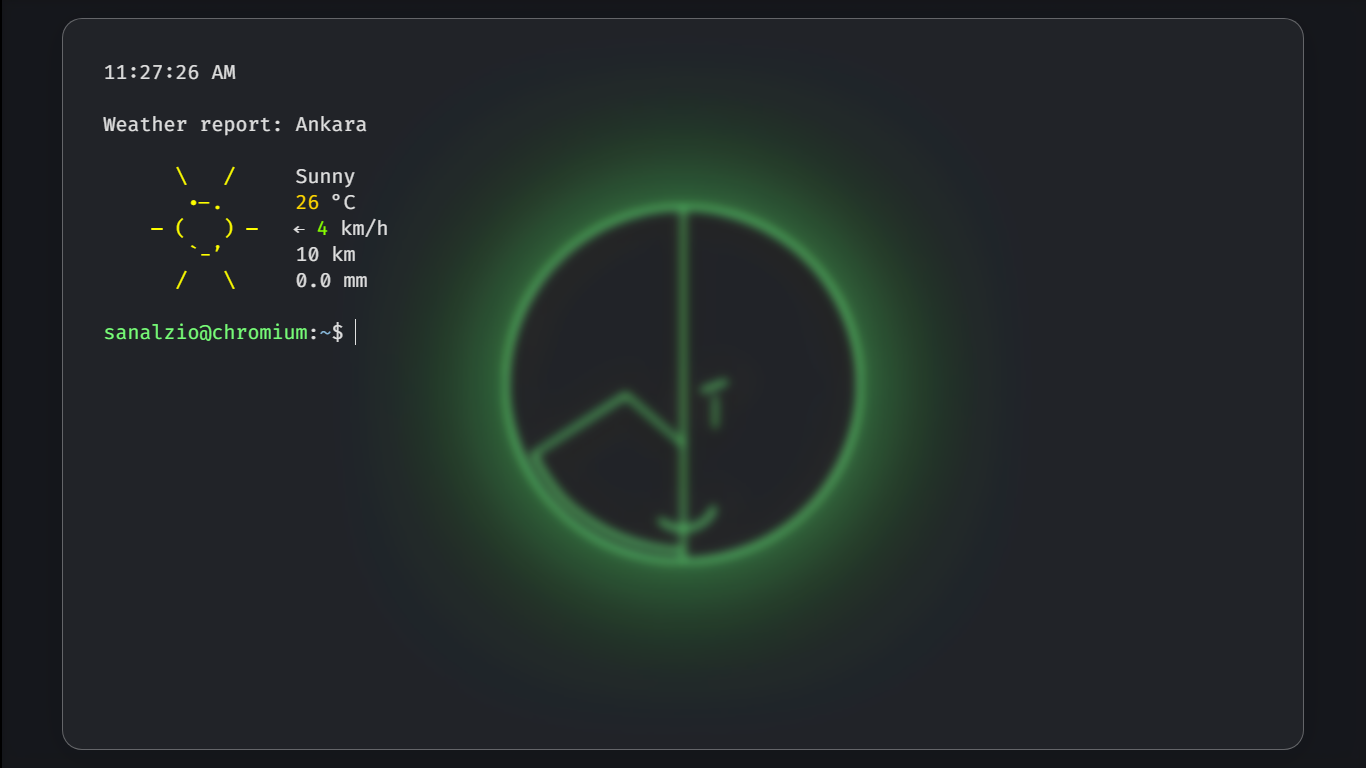
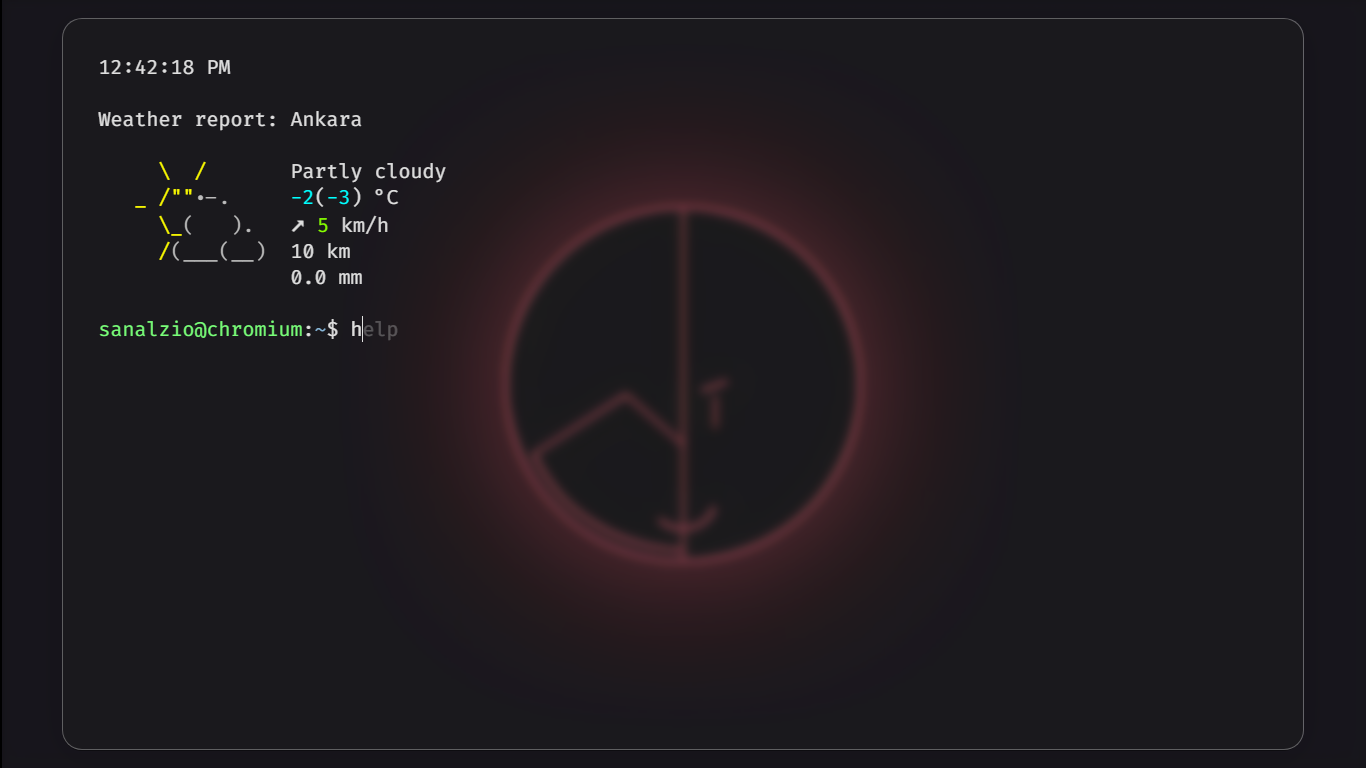
version 1.15.0
- All option names casing in `manifest.json` file changed to `snake_case`.
- Added <ins>**one line comment**</ins> (`// ...`) support for `manifest.json`.
- Added scrollbar.
- Added new 2 wallpaper.

diff --git a/src/scripts/index.js b/src/scripts/index.js
@@ -170,7 +170,7 @@ const stdout = {
         if(stdInValue != "" && thisProcess === undefined) history.push(stdInValue);
         currentHistoryElement = history.length;
 
-        if(settings.remebmerHistory)
+        if(settings.remebmer_history)
             localStorage.setItem("history", JSON.stringify(history));
 
         form.style.display = "none";
@@ -418,7 +418,7 @@ const commands = {
 
             if (!res) return 1;
 
-            // if connection error
+            // if connection returned error
             const err = res.status !== 200 ? res.status : null;
             if (err) {
                 // log error code
@@ -492,11 +492,25 @@ const commands = {
     },
     "bash": {
         func: async function (process) {
-            await fetch(process._).then(res => res.text()).then(async (scriptContent) => {
-                if (!(scriptContent === ""))
-                    // execute script
-                    await executeScript(scriptContent);
-            });
+
+            // if argument is a url
+            const res = await request(process._);
+
+            if (!res) return 1;
+
+            // if connection error
+            const err = res.status !== 200 ? res.status : null;
+            if (err) {
+                // log error code
+                stdout.error("Response returned " + Fore.Bright + Fore.Red + err + Fore.Reset + " code.");
+                // exit with error code
+                return err;
+            }
+
+            const scriptContent = await res.text();
+
+            await executeScript(scriptContent);
+
             return 0;
         },
         about: `Run script.%ALIASES%\nExample:\n $ bash ./file.sh\n $ bash https://example.com/script.sh`
@@ -573,7 +587,7 @@ const commands = {
             }
 
             // if used with --24h or default time format is 24 hours
-            if (process.options["24h"] || (!process.options["12h"] && settings.timeHours == 24)) {
+            if (process.options["24h"] || (!process.options["12h"] && settings.time_hours == 24)) {
 
                 const time = new Date().toLocaleTimeString([], { hour12: false, hour: "2-digit", minute: "2-digit", second: "2-digit" });
                 stdout.log("<span class=\"time24\">" + time + "</span>", false);
@@ -581,7 +595,7 @@ const commands = {
             }
 
             // if used with --24h or default time format is 24 hours
-            else if (process.options["12h"] || (!process.options["24h"] && settings.timeHours == 12)) {
+            else if (process.options["12h"] || (!process.options["24h"] && settings.time_hours == 12)) {
 
                 const time = new Date().toLocaleTimeString([], { hour12: true, hour: "2-digit", minute: "2-digit", second: "2-digit" });
                 stdout.log("<span class=\"time\">" + time + "</span>", false);
@@ -823,7 +837,7 @@ const commands = {
                 return 1;
             }
 
-            let url = encodeURI(process._).replace(encodeURI(process._), settings["search-engine-url"]);
+            let url = encodeURI(process._).replace(encodeURI(process._), settings["search_engine_url"]);
 
             for (const [k, v] of Object.entries(process.options)) {
                 if ("s" == k) continue;
@@ -842,6 +856,32 @@ const commands = {
             return 0;
         },
         about: `Search in the web.%ALIASES%\nFlags: -s: open in this tab\nExamples:\n $ search sanalzio\n $ s -s sanalzio\n $ s -yt Röportaj Adam`
+    },
+    "man": {
+        func: async function (process) {
+
+            // if argument is a url
+            const res = await request("./manuals/" + process._.toLowerCase() + ".txt");
+
+            if (!res) return 1;
+
+            // if connection returned error
+            const err = res.status !== 200 ? res.status : null;
+            if (err) {
+                // log error code
+                stdout.error("Response returned " + Fore.Bright + Fore.Red + err + Fore.Reset + " code.");
+                // exit with error code
+                return err;
+            }
+
+            const data = await res.text();
+
+            // log file content
+            stdout.write(data + (data.endsWith("\n") ? "" : "\n"), false, false);
+
+            // exit
+            return 0;
+        }
     },
     "help": {
         func: async function (process) {
@@ -1013,6 +1053,29 @@ stdOut.addEventListener("focusin", function (event) {
 /* disable focusing to #std-out */
 
 
+/* add command function */
+
+function addCommand(cmd, func, about, cmdAliases = [], autoComplete = undefined) {
+    commands[cmd] = new Object();
+    commands[cmd].func = func;
+    commands[cmd].about = about;
+
+    autoCompList.push(cmd);
+
+    if (cmdAliases.length > 0) {
+        for (let i = 0; i < cmdAliases.length; i++) {
+            const alias = cmdAliases[i];
+            aliases[alias] = cmd;
+            autoCompList.push(alias);
+        }
+    }
+
+    if (autoComplete) commands[cmd].autoComplete = autoComplete;
+}
+
+/* add command function */
+
+
 /* funtion for load custom themes from manifest.json */
 
 function applyThemes() {
@@ -1163,7 +1226,8 @@ document.addEventListener('DOMContentLoaded', async function() {
     form.style.display = "none";
 
     const manifestRes = await request("./manifest.json");
-    manifest = await manifestRes.json();
+    const manifestTextData = await manifestRes.text();
+    manifest = JSON.parse(manifestTextData.replace(/(?<!:)\/\/(?!\/).*/gm, ""));
 
     settings = manifest.terminal_settings;
     aliases = {...manifest.aliases, ...aliases};
@@ -1175,14 +1239,14 @@ document.addEventListener('DOMContentLoaded', async function() {
 
     loadFavicon();
 
-    enableAutoComplete = settings["enable-auto-complete"];
+    enableAutoComplete = settings["enable_auto_complete"];
 
     for (let i = 0; i < manifest.modules.length; i++) {
         const moduleName = manifest.modules[i];
         loadModuleDom(moduleName);
     }
 
-    if (settings.effectiveTime) {
+    if (settings.effective_time) {
         timeInterval = setInterval(() => {
             if (times)
                 for (let i = 0; i < times.length; i++) {
@@ -1206,13 +1270,13 @@ document.addEventListener('DOMContentLoaded', async function() {
     aboutContent = `
  ${Fore.BrightBlue}version${Fore.Reset}: ${Fore.Blue}${manifest.version}${Fore.Reset}
  ${Fore.BrightBlue}font family${Fore.Reset}: ${Fore.Blue}${window.getComputedStyle(mainDiv).fontFamily}${Fore.Reset}
- ${Fore.BrightBlue}search engine${Fore.Reset}: ${Fore.Blue}${settings["search-engine-url"].split("/")[2]}${Fore.Reset}
+ ${Fore.BrightBlue}search engine${Fore.Reset}: ${Fore.Blue}${settings["search_engine_url"].split("/")[2]}${Fore.Reset}
 
  ${Fore.Red}█${Fore.Reset} ${Fore.Green}█${Fore.Reset} ${Fore.Yellow}█${Fore.Reset} ${Fore.Blue}█${Fore.Reset} ${Fore.Magenta}█${Fore.Reset} ${Fore.Cyan}█${Fore.Reset} ${Fore.White}█${Fore.Reset} ${Fore.Gray}█${Fore.Reset}
  ${Fore.BrightRed}█${Fore.Reset} ${Fore.BrightGreen}█${Fore.Reset} ${Fore.BrightYellow}█${Fore.Reset} ${Fore.BrightBlue}█${Fore.Reset} ${Fore.BrightMagenta}█${Fore.Reset} ${Fore.BrightCyan}█${Fore.Reset} ${Fore.BrightWhite}█${Fore.Reset}
 `;
 
-    if (settings.allowLoadScript) await fetch("./load.sh").then(async res => await res.text()).then(async (loadScript) => {
+    if (settings.allow_load_script) await fetch("./load.sh").then(async res => await res.text()).then(async (loadScript) => {
         if (!(loadScript === "")) await executeScript(loadScript);
     });
 

diff --git a/src/css/style.css b/src/css/style.css
@@ -22,29 +22,31 @@ body {
 #main {
     display: none;
     flex: 1;
-    width: var(--main-width);
+    width: calc(var(--main-width) + var(--scrollbar-width-2x));
+    box-sizing: content-box !important;
     height: var(--main-height);
-    max-width: var(--main-width);
+    padding-left: var(--scrollbar-width);
+    max-width: calc(var(--main-width) + var(--scrollbar-width-2x));
     max-height: var(--main-height);
     font-family: var(--main-font-family);
     font-size: var(--main-font-size);
     white-space: nowrap;
     overflow-y: auto;
-    overflow-x: hidden;
+    overflow-x: auto;
+    scrollbar-gutter: stable;
     overflow-wrap: break-word;
 }
 
 ::-webkit-scrollbar {
-    width: 0 !important;
-    height: 0 !important;
+    width: var(--scrollbar-width);
 }
 
 ::-webkit-scrollbar-thumb {
-    background: transparent !important;
-}
-
-::-webkit-scrollbar-track {
-    background: transparent !important;
+    border: var(--scrollbar-thumb-width) solid transparent;
+    background-clip: padding-box;
+    border-radius: 9999px;
+    background-color: var(--scrollbar-thumb-color);
+    backdrop-filter: opacity(0.3);
 }
 
 #form {

diff --git a/src/modules/example-extreme.js b/src/modules/example-extreme.js
@@ -1,0 +1,31 @@
+commands["example"] = { // "example" = command name
+    func: async function (process, isInput = false) {
+
+        // if no argument
+        if (process._ == "") {
+
+            // set std input prefix
+            return "";
+        }
+
+        if (process._.toLowerCase() == "ping")
+            stdout.log("pong", false);
+
+        // if is std input
+        if(isInput)
+            // set std input prefix
+            return "";
+
+        return 0;
+    },
+    autoComplete: [
+        "ping",
+        "PING"
+    ],
+    about: `Example module command.%ALIASES%`
+};
+
+aliases["ex"] = "example"; // "example" = aliases name
+
+autoCompList.push("example"); // for autocomplete
+autoCompList.push("ex"); // for autocomplete

diff --git a/src/themes/glass.css b/src/themes/glass.css
@@ -6,11 +6,17 @@
 }
 
 #main{
-    padding: 2rem;
+    padding: var(--scrollbar-width);
+    width: var(--main-width);
+    box-sizing: border-box !important;
+    height: var(--main-height);
+    max-width: var(--main-width);
+    padding-right: 0;
+
     background: rgba(255, 255, 255, 0.05);
     border-radius: 16px;
     box-shadow: 0 4px 30px rgba(0, 0, 0, 0.1);
-    backdrop-filter: blur(4px);
-    -webkit-backdrop-filter: blur(4px);
+    backdrop-filter: blur(4px) brightness(0.6);
+    -webkit-backdrop-filter: blur(4px) brightness(0.6);
     border: 1px solid rgba(255, 255, 255, 0.3);
 }

diff --git a/src/themes/low-padding-glass.css b/src/themes/low-padding-glass.css
@@ -1,20 +1,4 @@
 :root{
-    --main-width: 100%;
-    --main-height: 100%;
-    --main-font-family: "Fira Code", consolas, monospace;
-    --main-font-size: medium;
-}
-
-body{
-    padding: 0.5rem;
-}
-
-#main{
-    padding: 0.5rem;
-    background: rgba(255, 255, 255, 0.05);
-    border-radius: 16px;
-    box-shadow: 0 4px 30px rgba(0, 0, 0, 0.1);
-    backdrop-filter: blur(4px);
-    -webkit-backdrop-filter: blur(4px);
-    border: 1px solid rgba(255, 255, 255, 0.3);
+    --main-width: calc(100% - var(--scrollbar-width));
+    --main-height: calc(100% - var(--scrollbar-width));
 }

diff --git a/src/modules/example.js b/src/modules/example.js
@@ -1,11 +1,8 @@
-commands["example"] = { // "example" = command name
-    func: async function (process, isInput = false) {
+addCommand(
+    "example", // command name
+    async function (process, isInput = false) {  // command operations
         stdout.log("Example command!");
         return 0;
     },
-    about: `Example module command.%ALIASES%`
-};
-
-aliases["ex"] = "example"; // "example" = aliases name
-
-autoCompList.push("example"); // for autocomplete
+    ["ex",] // command aliases
+);

diff --git a/src/themes/glass-for-light-theme.css b/src/themes/glass-for-light-theme.css
@@ -6,7 +6,13 @@
 }
 
 #main{
-    padding: 2rem;
+    padding: var(--scrollbar-width);
+    width: var(--main-width);
+    box-sizing: border-box !important;
+    height: var(--main-height);
+    max-width: var(--main-width);
+    padding-right: 0;
+
     background: rgba(130, 130, 130, 0.05);
     border-radius: 16px;
     box-shadow: 0 4px 30px rgba(0, 0, 0, 0.1);

diff --git a/src/themes/low-padding.css b/src/themes/low-padding.css
@@ -4,5 +4,16 @@
 }
 
 body{
-    padding: 0.5rem;
+    padding: var(--scrollbar-width) 0;
+    width: 100vw;
+    height: 100vh;
+}
+
+#main{
+    padding-left: var(--scrollbar-width);
+    width: var(--main-width);
+    box-sizing: border-box !important;
+    height: var(--main-height);
+    max-width: var(--main-width);
+    box-sizing: border-box !important;
 }

diff --git a/src/themes/hide-scrollbar.css b/src/themes/hide-scrollbar.css
@@ -1,0 +1,17 @@
+#main {
+    overflow-x: hidden;
+    padding-right: var(--scrollbar-width);
+}
+
+::-webkit-scrollbar {
+    width: 0 !important;
+    height: 0 !important;
+}
+
+::-webkit-scrollbar-thumb {
+    background: transparent !important;
+}
+
+::-webkit-scrollbar-track {
+    background: transparent !important;
+}

diff --git a/src/themes/light.css b/src/themes/light.css
@@ -9,6 +9,7 @@
     --html-text: #212121;
     --html-selection: #212121;
     --html-selection-text: #dddddd;
+    --scrollbar-thumb-color: rgba(33, 33, 33, 0.7);
 
     --ansi-black-fg: #212121; /* matches text color */
     --ansi-red-fg: #ef5959; /* keep pastel red for contrast */

diff --git a/src/themes/custom-background.css b/src/themes/custom-background.css
@@ -1,5 +1,6 @@
 :root{
-    --html-background: url("../wallpaper/sanalzio/neon-green.png");
+    /* --html-background: url("../wallpaper/ascii_cats/latte-pink-cat.svg"); */
+    --html-background: url("../wallpaper/sanalzio/neon-red.png");
 }
 
 body{

diff --git a/src/themes/default.css b/src/themes/default.css
@@ -3,4 +3,7 @@
     --main-height: 80%;
     --main-font-family: "Fira Code", consolas, monospace;
     --main-font-size: medium;
+    --scrollbar-width: 28px;
+    --scrollbar-width-2x: 56px;
+    --scrollbar-thumb-width: 12px;
 }
